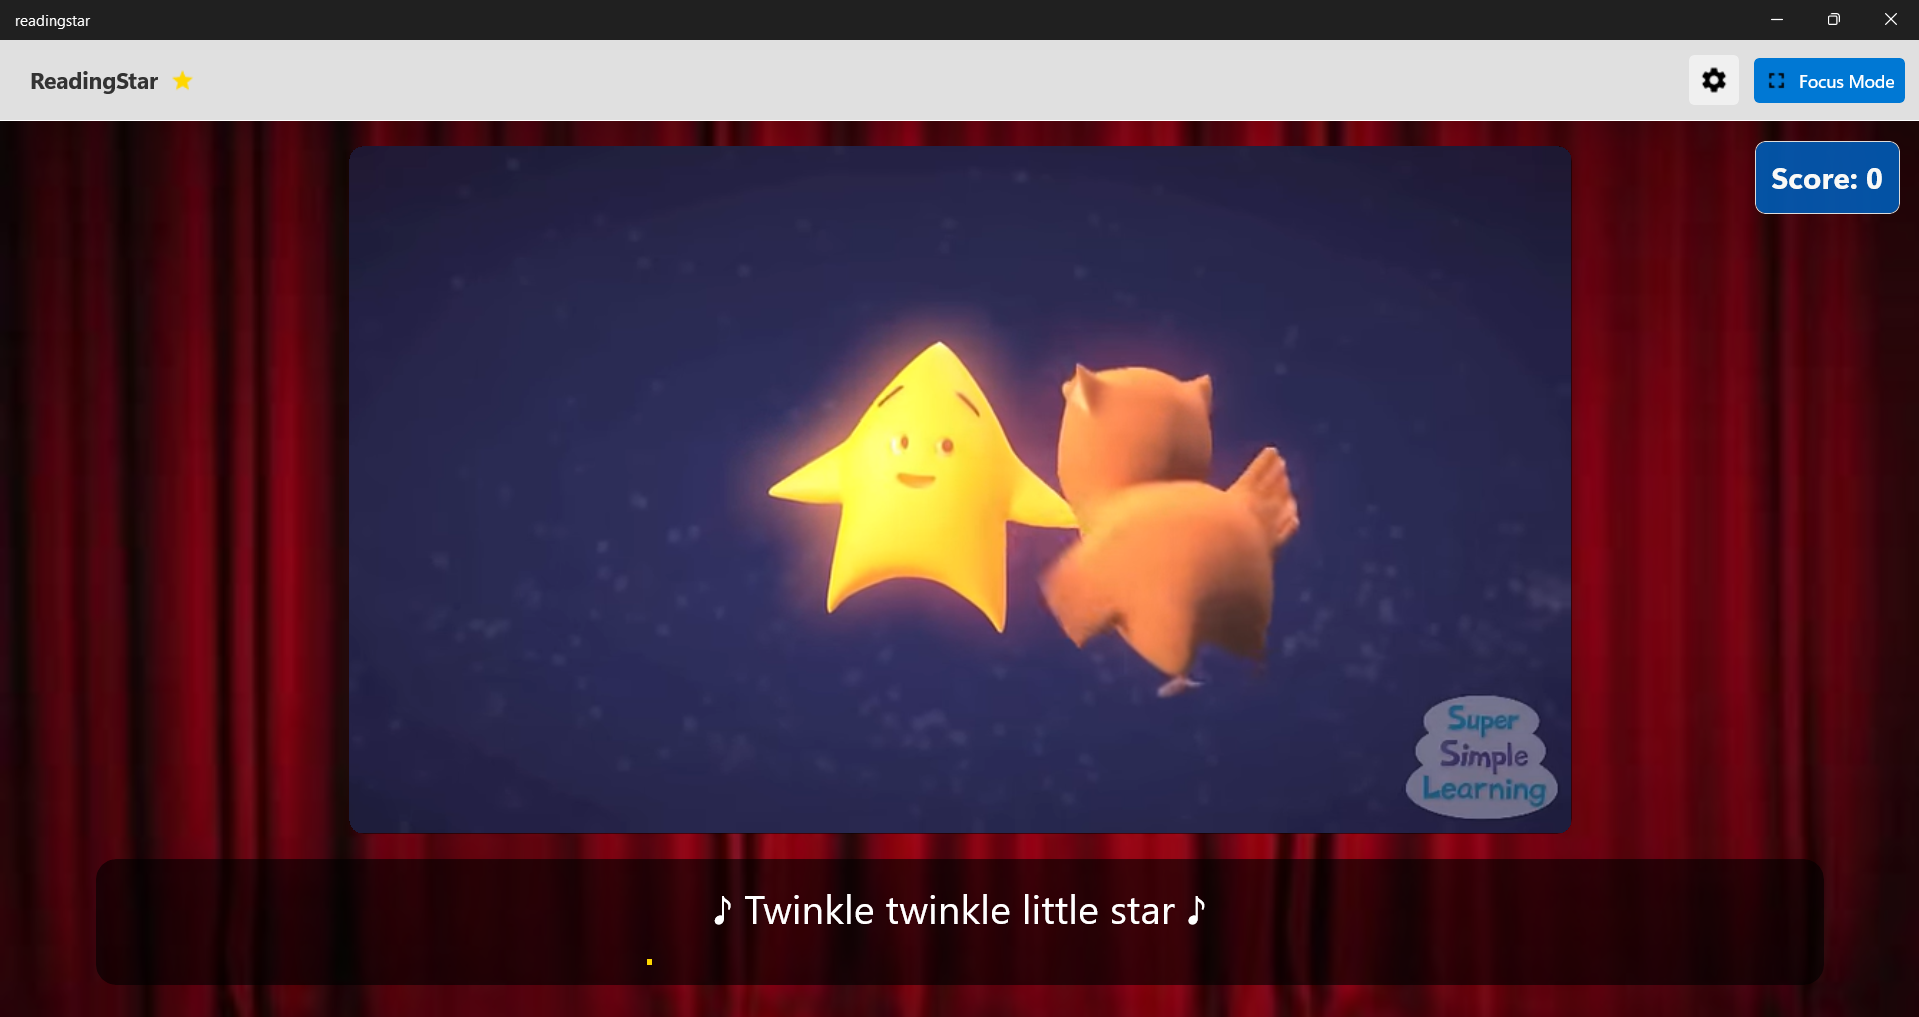
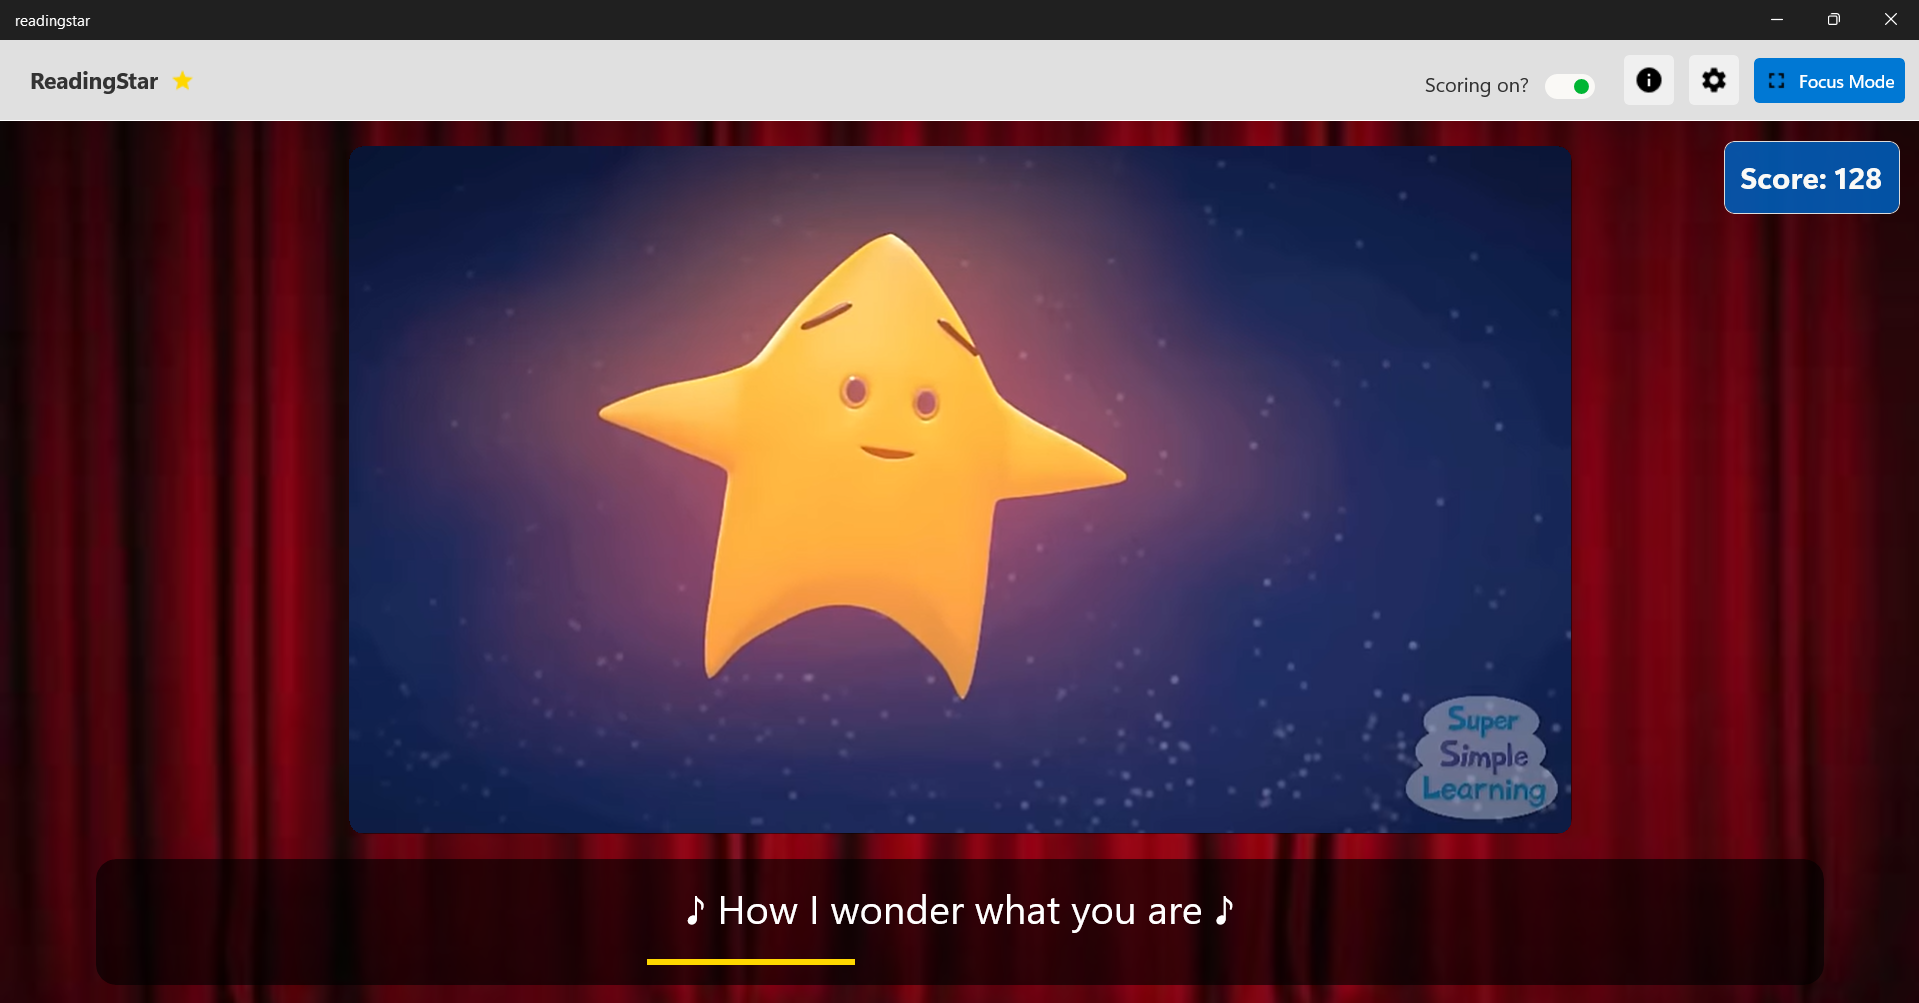
updated photos

diff --git a/evaluation.html b/evaluation.html
@@ -404,7 +404,8 @@
                   <p>
                     Our app provides a smooth and streamlined user experience, and we believe that we have achieved our goal of an exciting, accessible game. At its very base, React Native has allowed us to build an intuitive and responsive application. 
                     On the main game screen, the use of bright colours, big buttons, all while conforming to familiar app layouts, means players need just one click to begin singing. Meanwhile, our focus mode and theme selector for performances takes gameplay 
-                    to a completely new level, allowing players to completely lock into their performanceWe also have settings available to adjust features like fonts, and their sizing, colours, and more, and the scoring visibility can be toggled at any moment.
+                    to a completely new level, allowing players to completely lock into their performance. ReadingStar also has settings available to adjust features like fonts, and their sizing, colours, and more, and the scoring visibility can be toggled at 
+                    any moment.
                   </p>
                 </div>
               </div>

diff --git a/ui-design.html b/ui-design.html
@@ -260,7 +260,7 @@
               <div class="implementation-info">
                 <br>
                 <h3>Main Interface</h3>
-                <p>The main interface features clear navigation, playlist organization, and immediate visual feedback. Following heuristic principles, it implements consistent button styling, visible system status through score display, and clear error prevention through guided input fields. The interface maintains a match between system and real world with familiar video player controls.</p>
+                <p>The main interface features clear navigation, playlist organization, and immediate visual feedback. Following heuristic principles, it implements consistent button styling, visible system status through score display, and clear error prevention through guided input fields. The interface maintains a match between system and real world with familiar video player controls. There is also a clear switch in the top right, which allows for toggling the scoring mode.</p>
               </div>
               <hr>
             </div>
